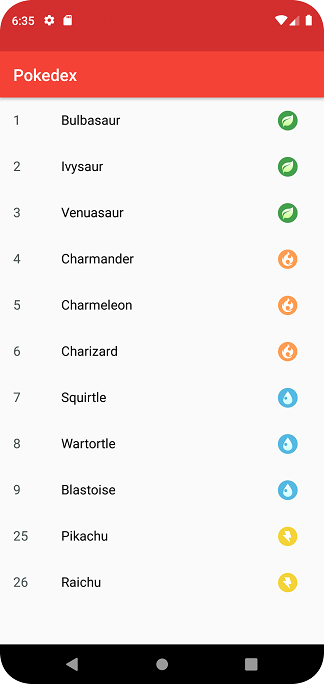
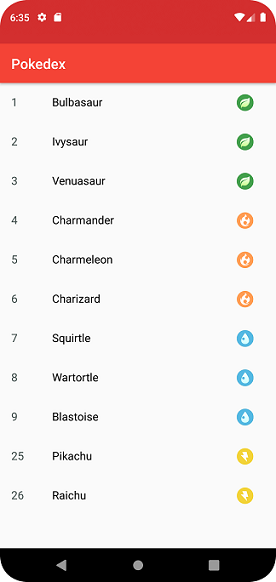
:recycle: Adapting size images 2

diff --git a/README.md b/README.md
@@ -18,7 +18,7 @@ Algunos de los temas trabajados en esta app son:
   <img src="images/new_pokedex_2.png" alt="Captura 2" style= "max-width:50%; height: auto;">
 </div>
 
-<br>
+
 <br>
 
 ## Instalación
